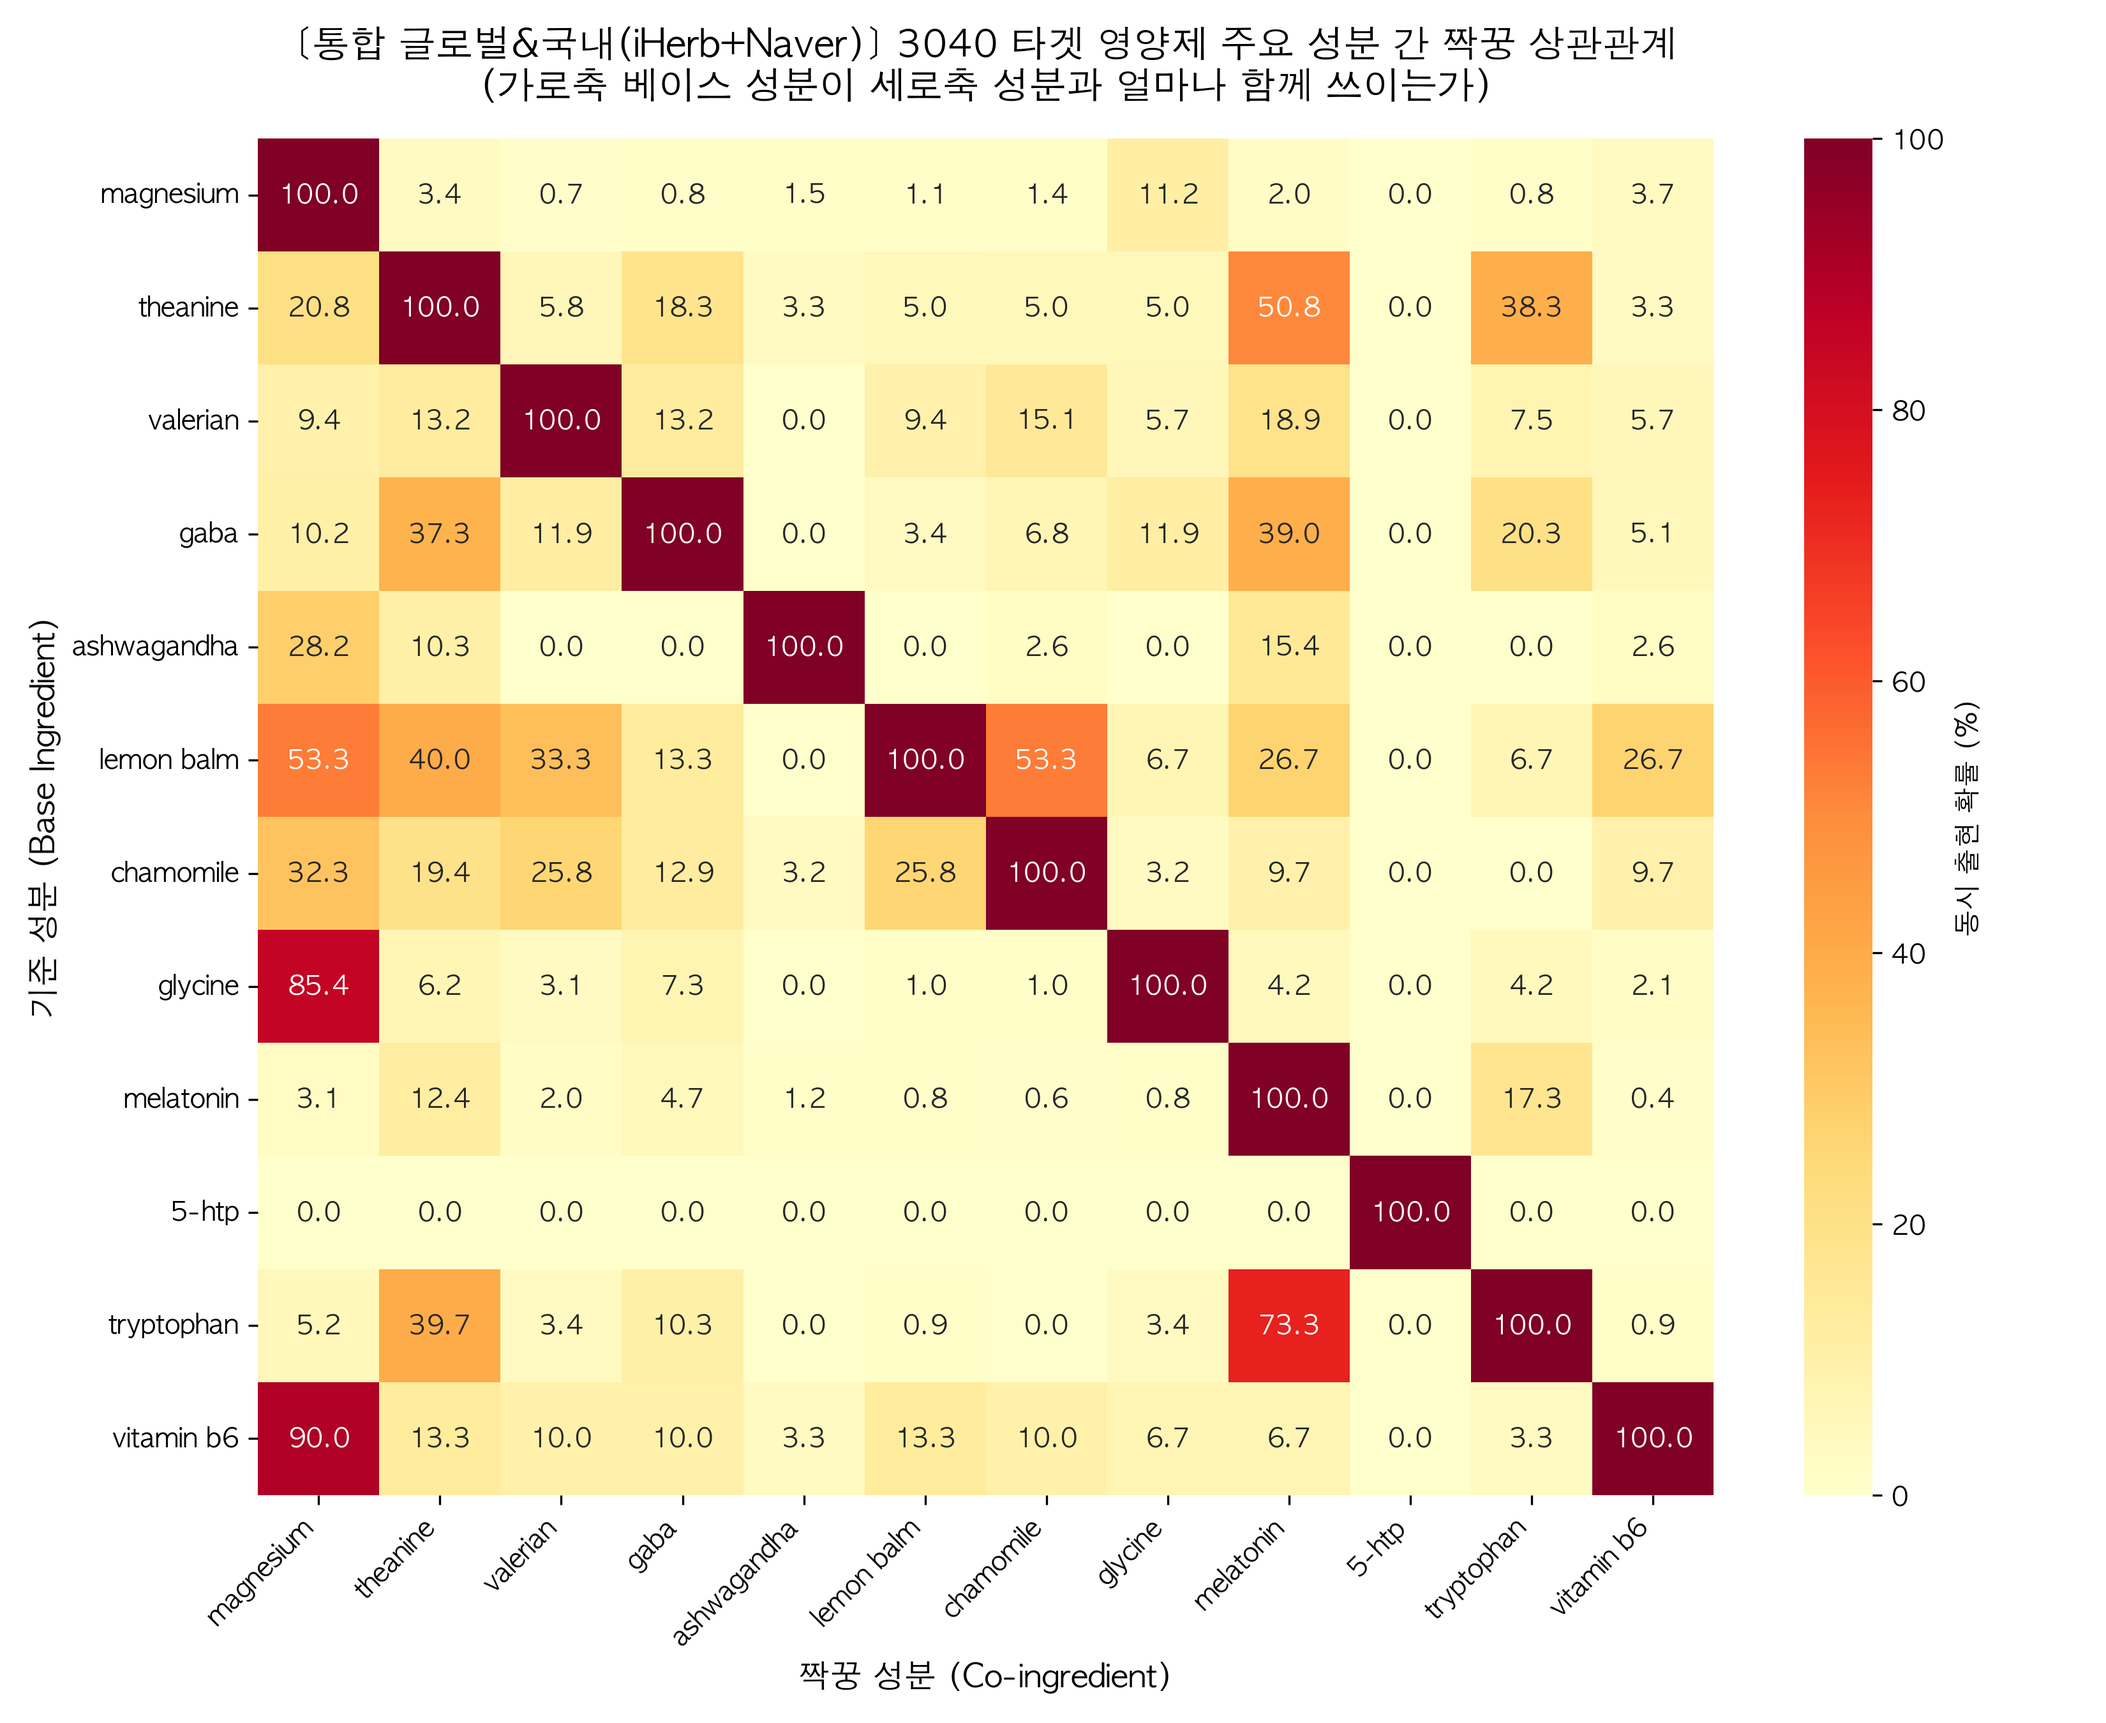
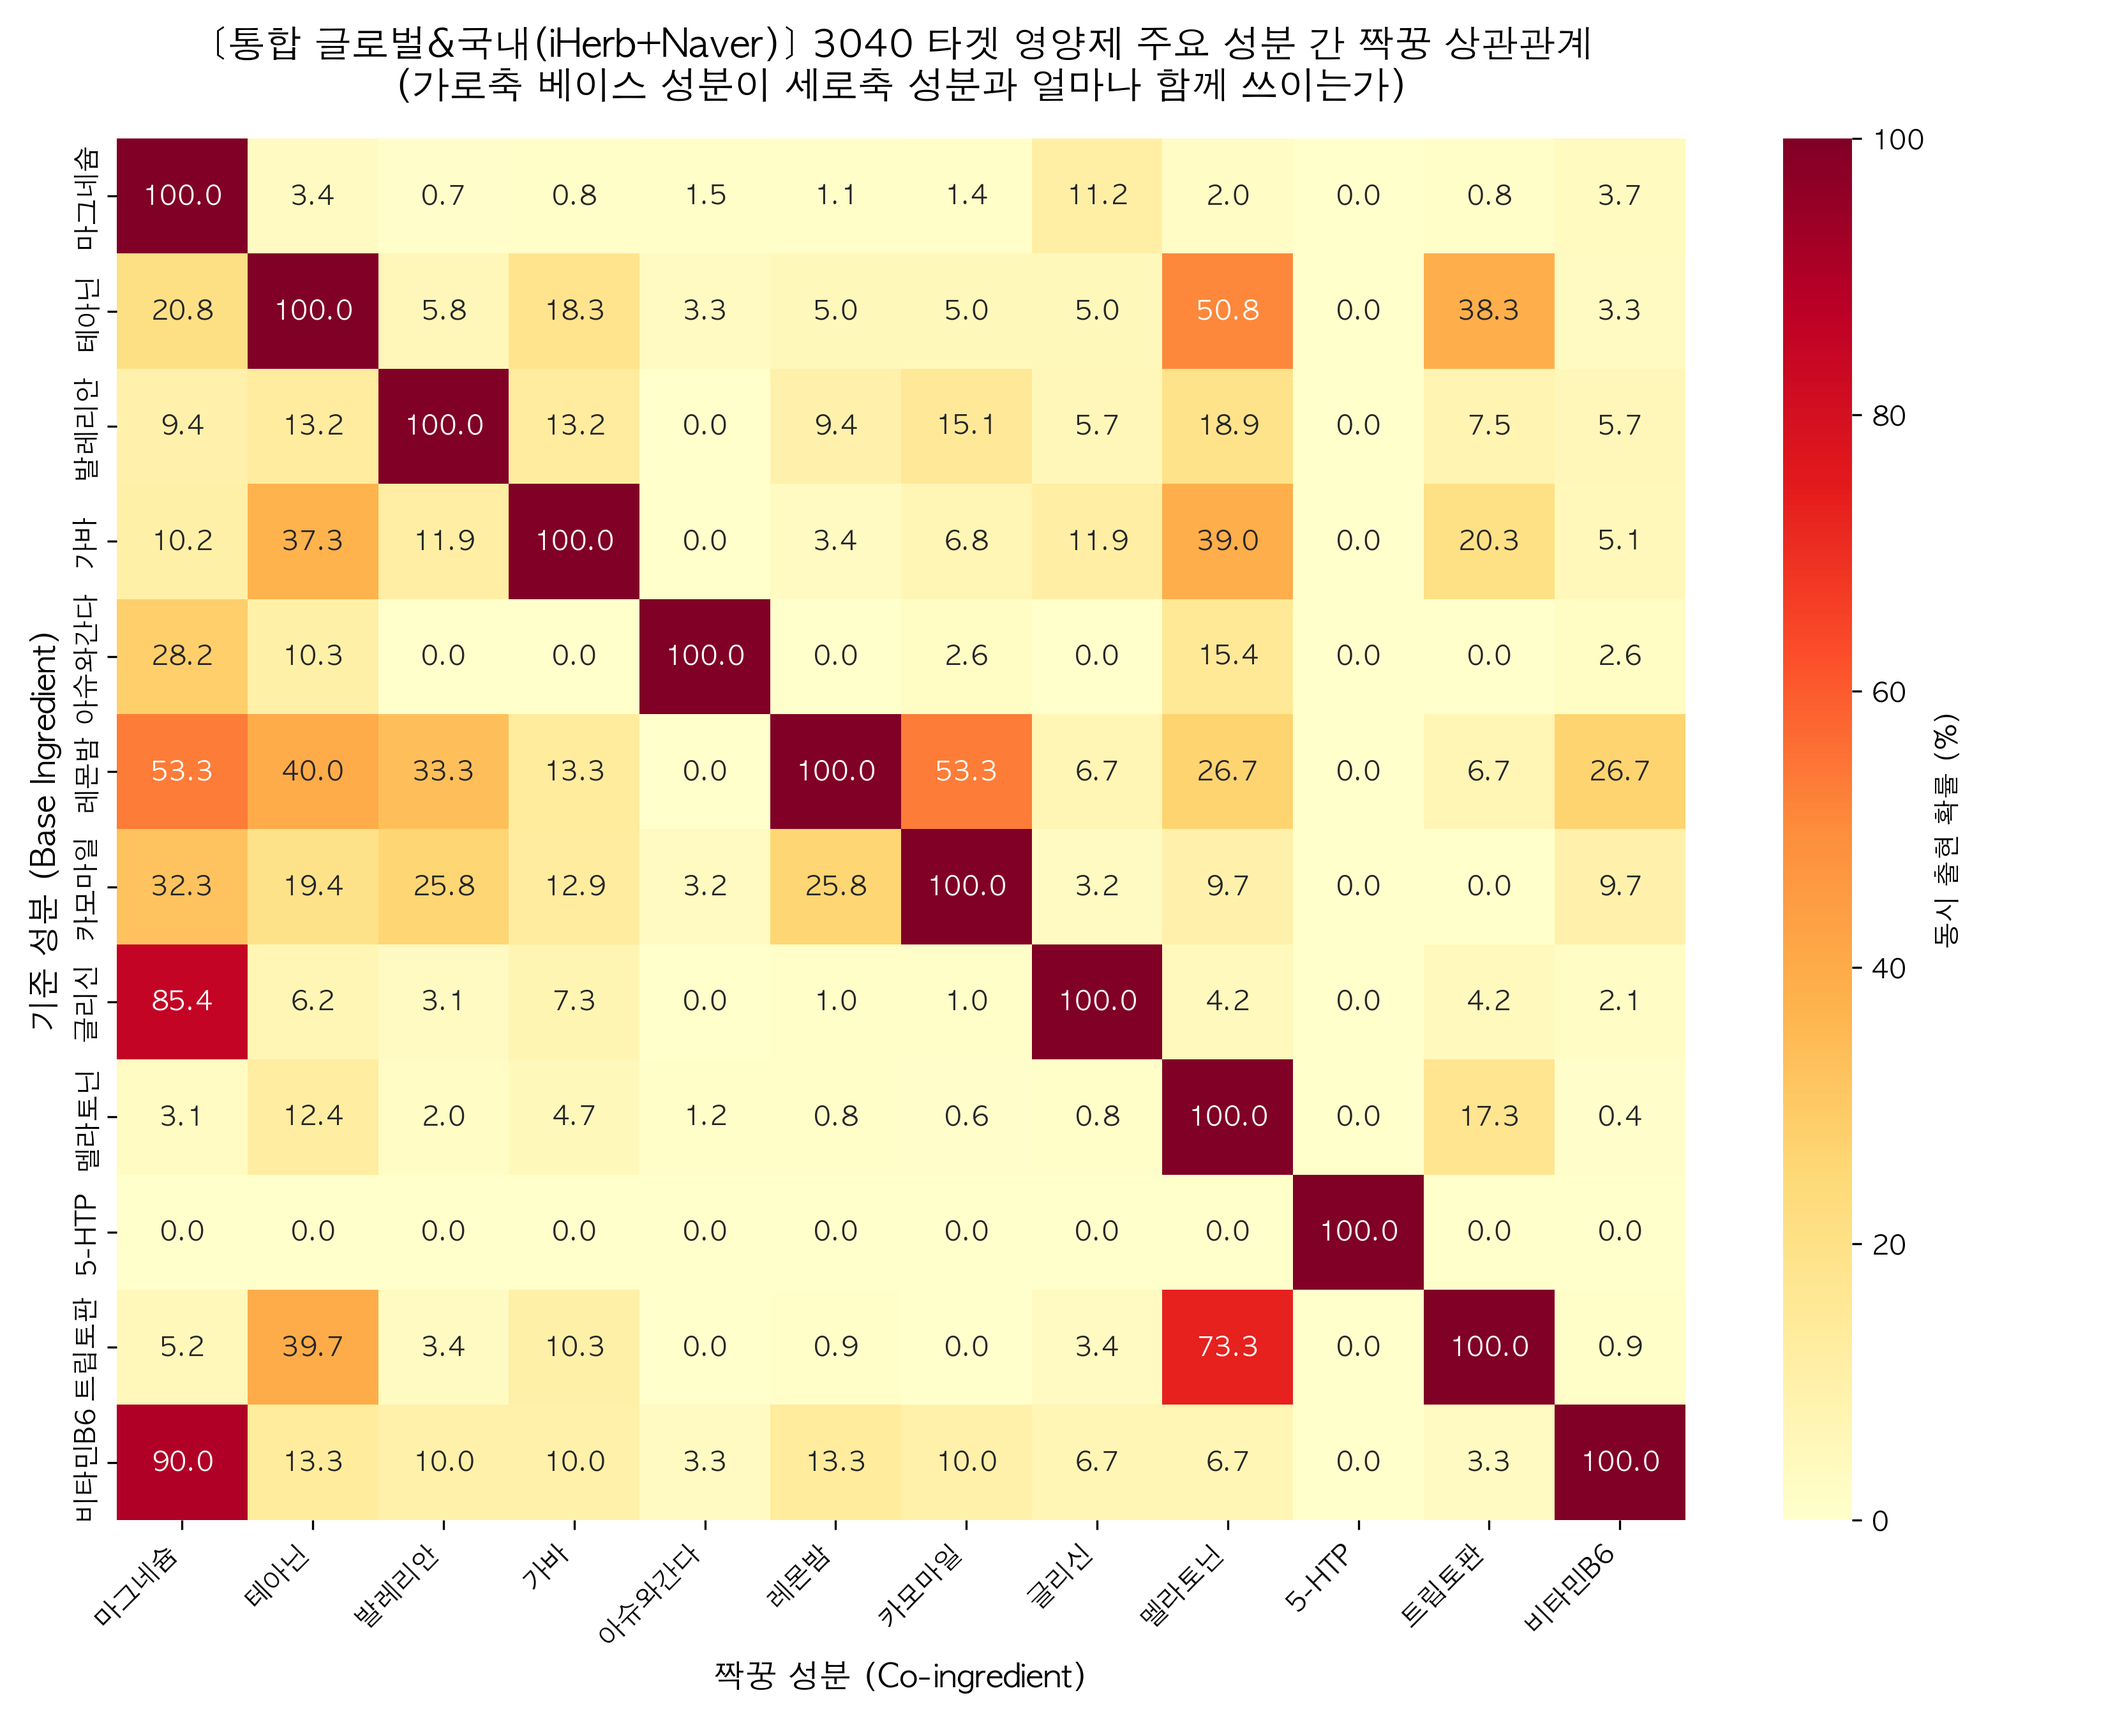
feat: localize co-occurrence analysis output and charts to Korean

diff --git a/py/analyze_cooccurrence_advanced.py b/py/analyze_cooccurrence_advanced.py
@@ -41,6 +41,21 @@ INGREDIENT_MAP_ADV = {
     'vitamin b6': ['vitamin b6', '비타민 b6', '비타민b6']
 }
 
+KOR_NAMES = {
+    'magnesium': '마그네슘',
+    'theanine': '테아닌',
+    'valerian': '발레리안',
+    'gaba': '가바',
+    'ashwagandha': '아슈와간다',
+    'lemon balm': '레몬밤',
+    'chamomile': '카모마일',
+    'glycine': '글리신',
+    'melatonin': '멜라토닌',
+    '5-htp': '5-HTP',
+    'tryptophan': '트립토판',
+    'vitamin b6': '비타민B6'
+}
+
 def extract_ingredients(text_series):
     """텍스트 군에서 성분 리스트 추출 (한/영 통합 매핑)"""
     mapped_list = []
@@ -86,7 +101,14 @@ def compute_cooccurrence(ingredients_lists, title_prefix, file_suffix):
                 prob_matrix.loc[row_ing, col_ing] = co_matrix.loc[row_ing, col_ing] / total_row_count
                 
     plt.figure(figsize=(11, 9))
-    sns.heatmap(prob_matrix * 100, annot=True, fmt=".1f", cmap="YlOrRd", cbar_kws={'label': '동시 출현 확률 (%)'})
+    
+    # 한국어 라벨 적용
+    kor_labels = [KOR_NAMES.get(ing, ing) for ing in TARGET_INGREDIENTS]
+    plot_matrix = prob_matrix.copy()
+    plot_matrix.index = kor_labels
+    plot_matrix.columns = kor_labels
+
+    sns.heatmap(plot_matrix * 100, annot=True, fmt=".1f", cmap="YlOrRd", cbar_kws={'label': '동시 출현 확률 (%)'})
     
     plt.title(f'[{title_prefix}] 3040 타겟 영양제 주요 성분 간 짝꿍 상관관계\n(가로축 베이스 성분이 세로축 성분과 얼마나 함께 쓰이는가)', fontsize=14, pad=15)
     plt.xlabel('짝꿍 성분 (Co-ingredient)', fontsize=12)
@@ -105,10 +127,12 @@ def compute_cooccurrence(ingredients_lists, title_prefix, file_suffix):
     for base in bases:
         if base in prob_matrix.index and ing_counts.get(base, 0) > 0:
             top_partners = prob_matrix.loc[base].drop(base).sort_values(ascending=False).head(3)
-            print(f"\n🔹 베이스 [{base.upper()}] 사용 시 ({ing_counts[base]}개 제품 기준):")
+            kor_base = KOR_NAMES.get(base, base)
+            print(f"\n🔹 베이스 [{kor_base}] 사용 시 ({ing_counts[base]}개 제품 기준):")
             for partner, prob in top_partners.items():
                 if prob > 0:
-                    print(f"    - [{partner.upper()}] 비율: {prob*100:.1f}%")
+                    kor_partner = KOR_NAMES.get(partner, partner)
+                    print(f"    - [{kor_partner}] 비율: {prob*100:.1f}%")
 
 def run_cooccurrence_matrix_analysis():
     print("🚀 [3040 직장인 타겟] 성분 간 짝꿍 상관관계 (Co-occurrence Matrix) 분석 시작")
